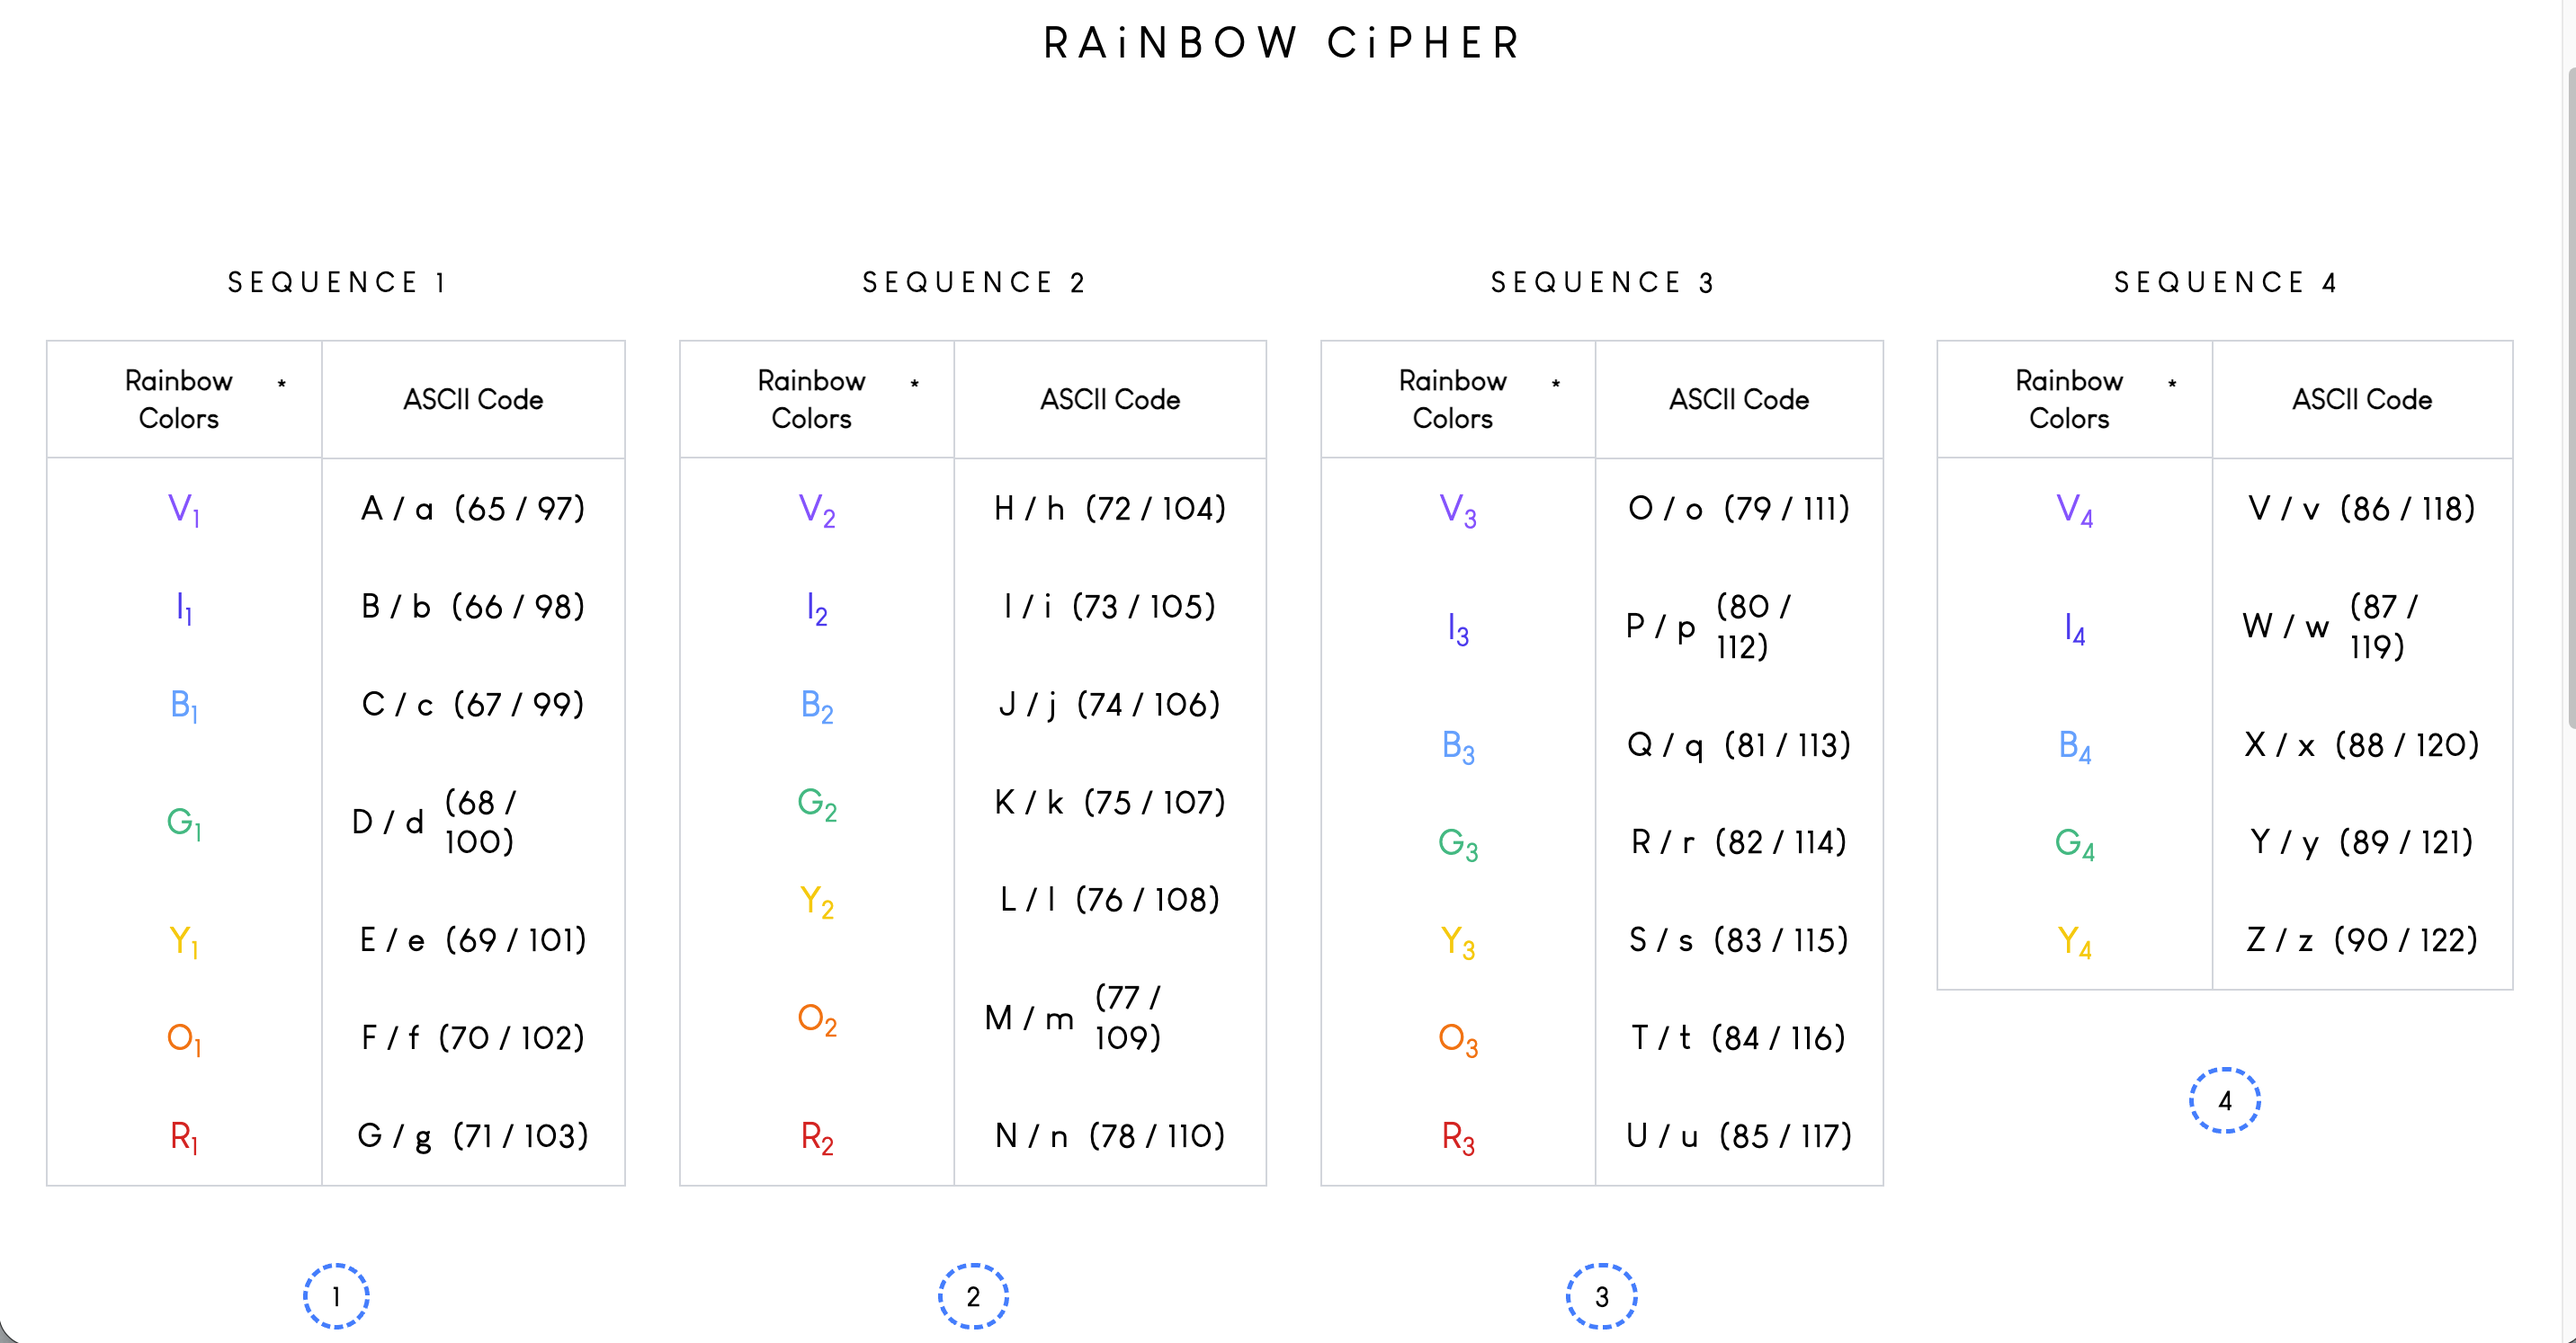
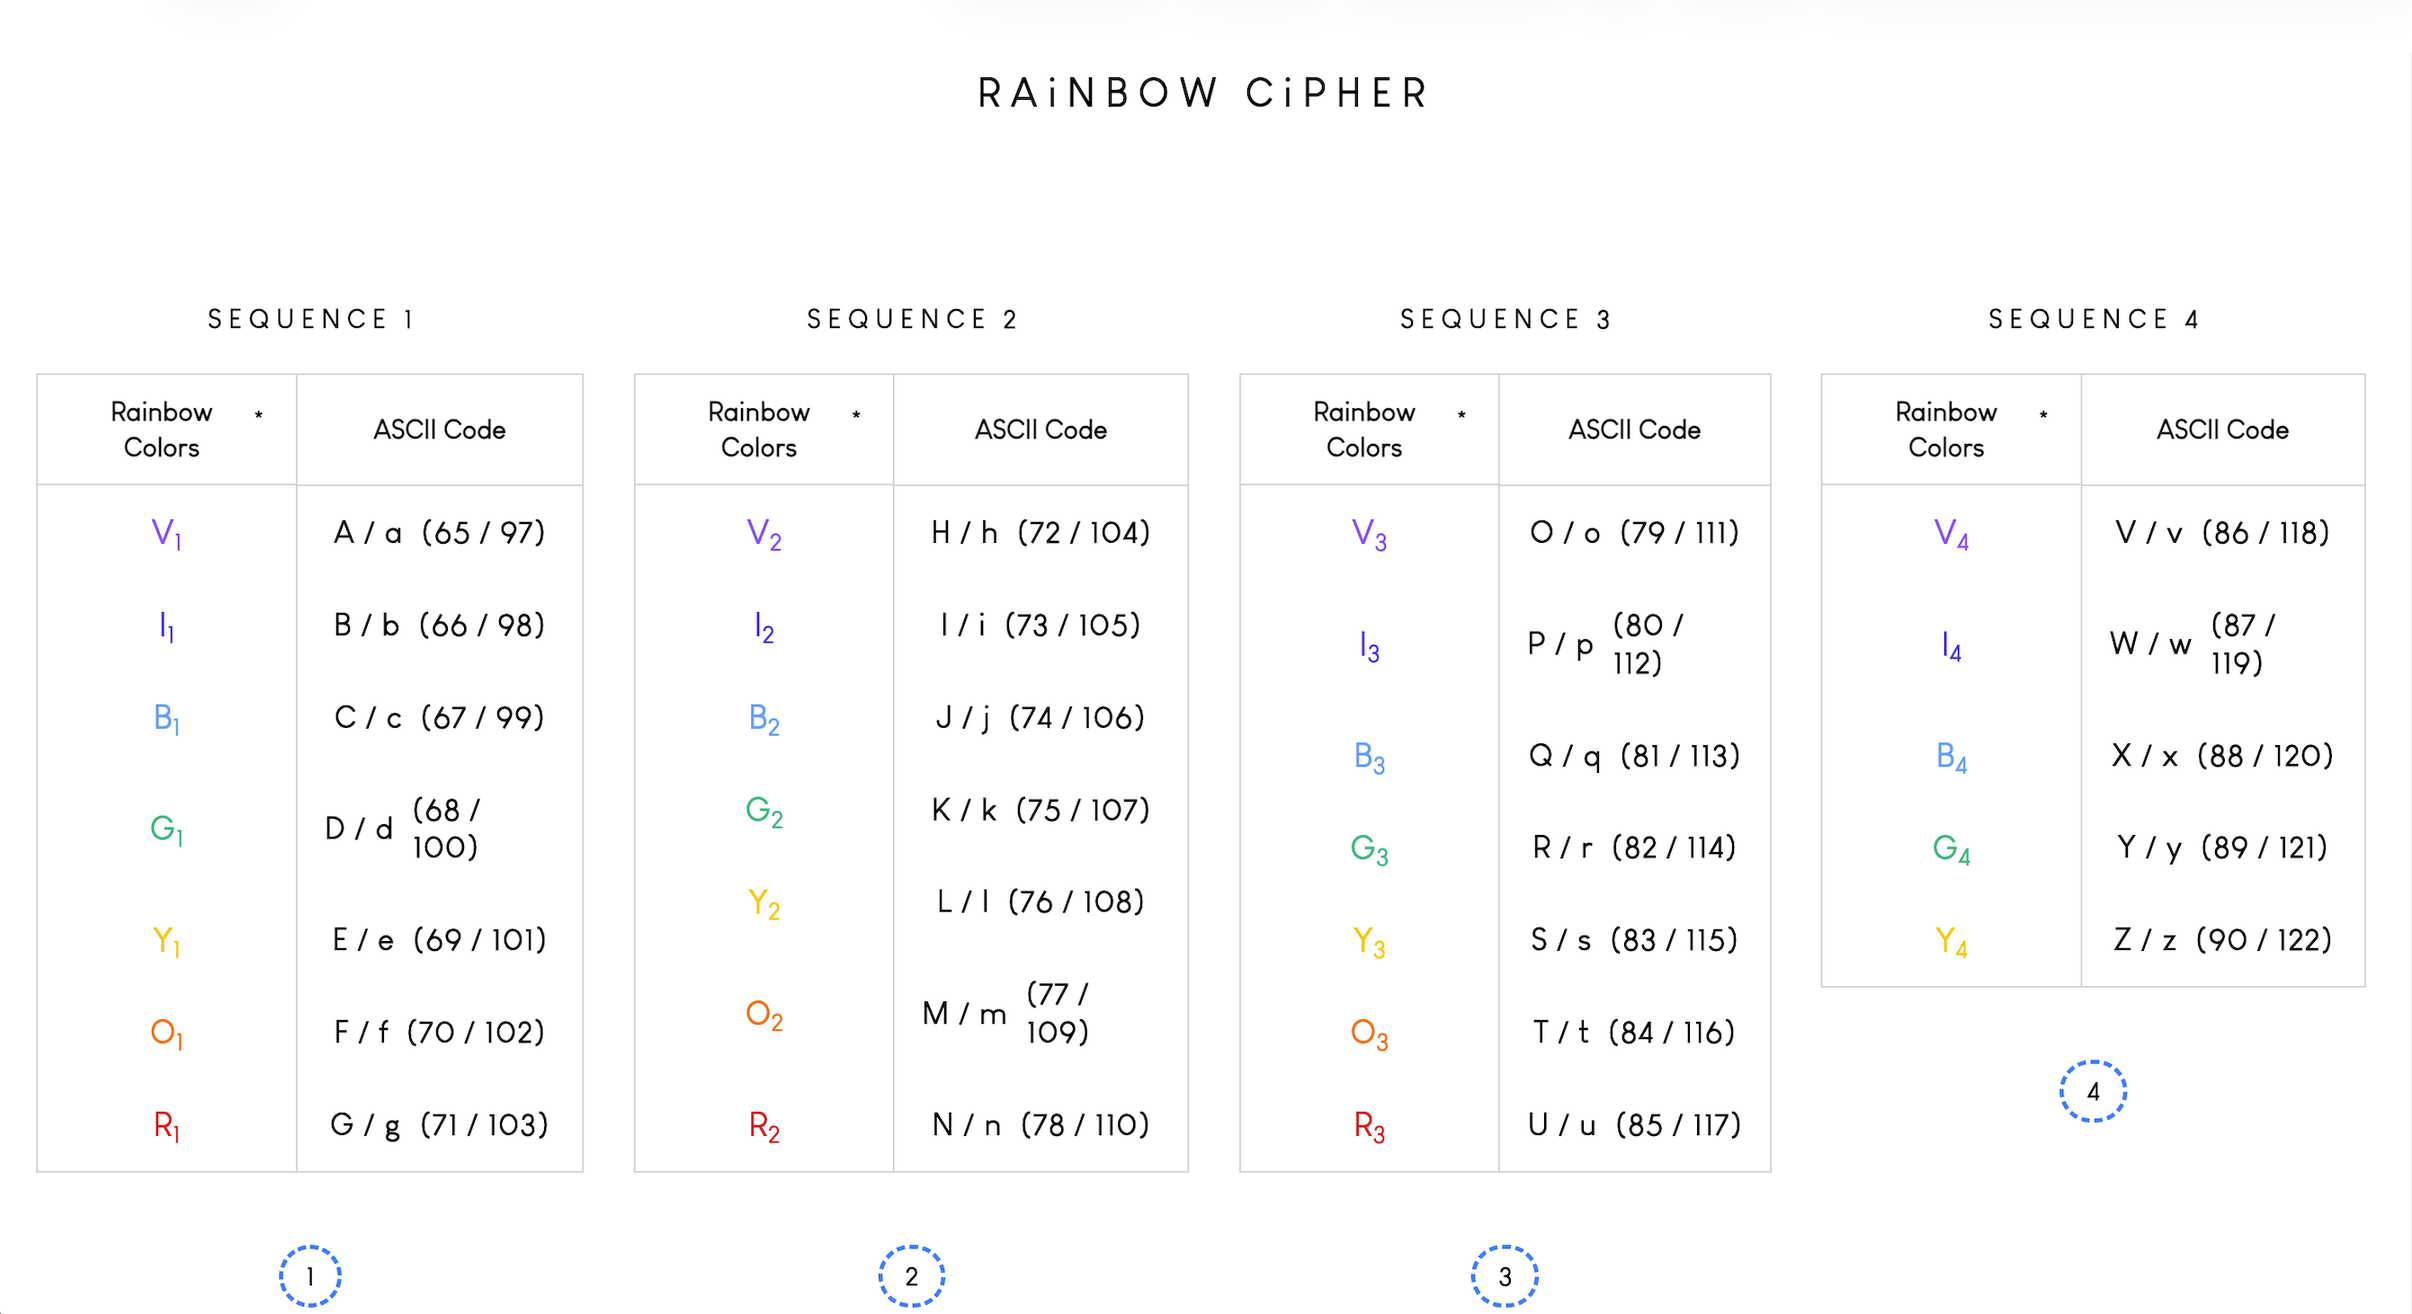
docs: README.MD content updates

diff --git a/README.md b/README.md
@@ -2,13 +2,16 @@
 
 ### A web app which encrypts/decrypts any text using rainbow series table.
 
+
 ### Tech Stack 🧑🏻💻
 Frontend: **React, Typescript, Vite**
 Store: **Zustand**
 
-### Rainbow Cipher Encryption/Decryption Table 🫆
+
+### Rainbow Series Cipher Table 🫆
 
 ![alt text](https://github.com/kodevx/rainbow-cipher/blob/main/public/screenshots/rctable.png?raw=true)
+
 
 ### Design UI/UX 👩🏼🎨
 
@@ -17,3 +20,4 @@ Store: **Zustand**
 
 #### Mobile
 ![alt text](https://github.com/kodevx/rainbow-cipher/blob/main/public/screenshots/mobile.png?raw=true)
+
